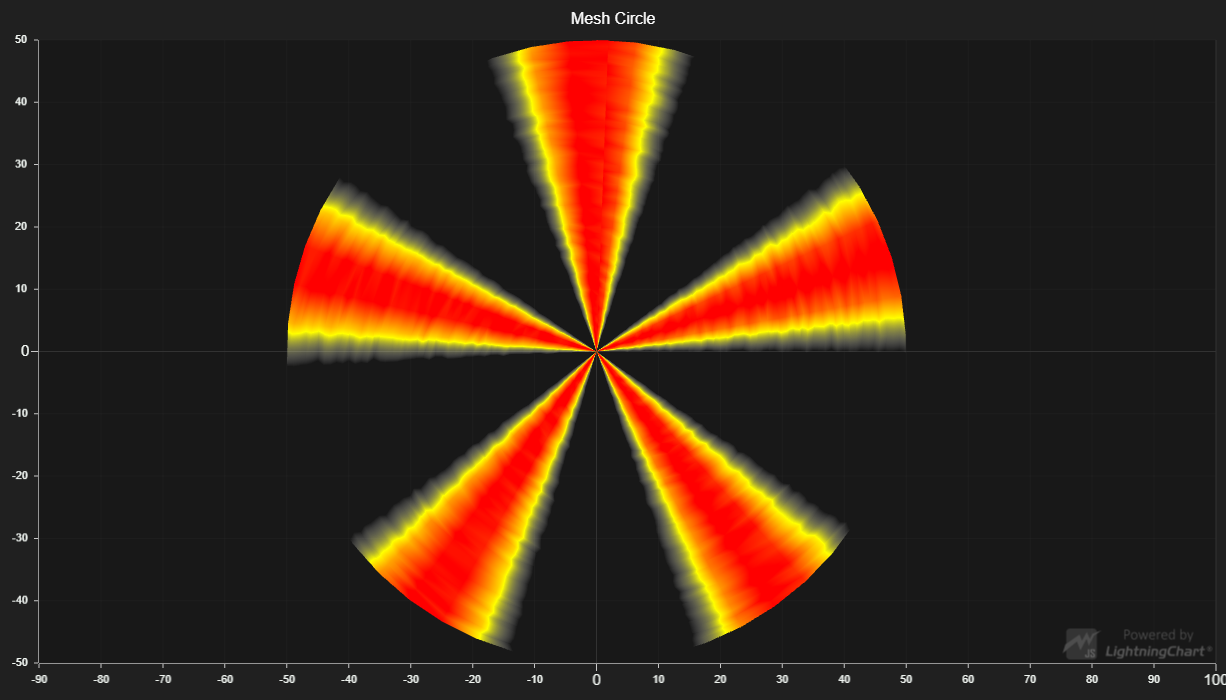
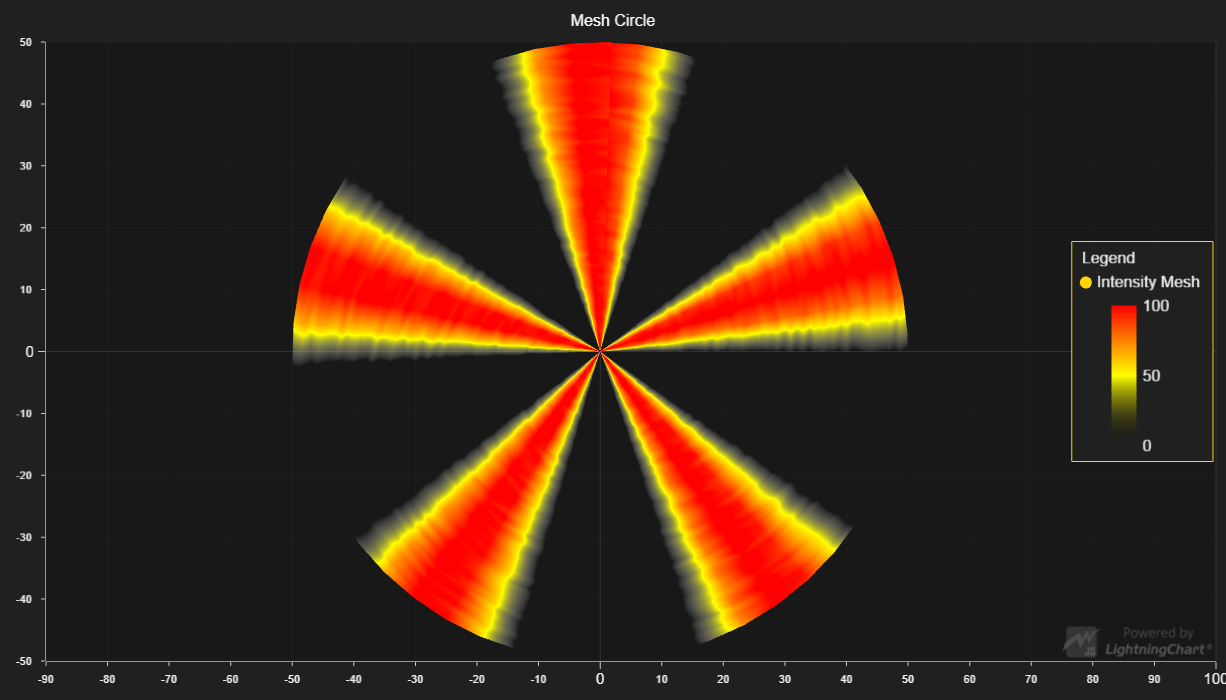
LCJS 3.0.0

diff --git a/src/index.js b/src/index.js
@@ -36,7 +36,7 @@ const lut = new LUT({
     ],
     interpolate: true
 })
-const paletteFill = new PalettedFill({ lut, lookUpProperty: 'x' })
+const paletteFill = new PalettedFill({ lut, lookUpProperty: 'value' })
 
 // Specify the resolution used for the mesh.
 const rows = 51
@@ -62,6 +62,9 @@ const meshCircle = chart.addHeatmapSeries(intensityOptions)
             y: Math.cos(angle) * radius,
         }
     })
+
+// Add LegendBox to chart.
+chart.addLegendBox().add(chart)
 
 const data = (rows, columns) => {
     let result = Array.from(Array(columns)).map(() => Array(rows))

diff --git a/README.md b/README.md
@@ -91,9 +91,9 @@ Direct developer email support can be purchased through a [Support Plan][4] or b
 © Arction Ltd 2009-2020. All rights reserved.
 
 
-[XY cartesian chart]: https://www.arction.com/lightningchart-js-api-documentation/v2.2.0/classes/chartxy.html
-[Intensity Mesh Series]: https://www.arction.com/lightningchart-js-api-documentation/v2.2.0/classes/intensitymeshseries.html
-[ColorRGBA]: https://www.arction.com/lightningchart-js-api-documentation/v2.2.0/globals.html#colorrgba
-[LUT]: https://www.arction.com/lightningchart-js-api-documentation/v2.2.0/classes/lut.html
-[PalettedFill]: https://www.arction.com/lightningchart-js-api-documentation/v2.2.0/classes/palettedfill.html
+[XY cartesian chart]: https://www.arction.com/lightningchart-js-api-documentation/v3.0.0/classes/chartxy.html
+[Intensity Mesh Series]: https://www.arction.com/lightningchart-js-api-documentation/v3.0.0/classes/intensitymeshseries.html
+[ColorRGBA]: https://www.arction.com/lightningchart-js-api-documentation/v3.0.0/globals.html#colorrgba
+[LUT]: https://www.arction.com/lightningchart-js-api-documentation/v3.0.0/classes/lut.html
+[PalettedFill]: https://www.arction.com/lightningchart-js-api-documentation/v3.0.0/classes/palettedfill.html
 
